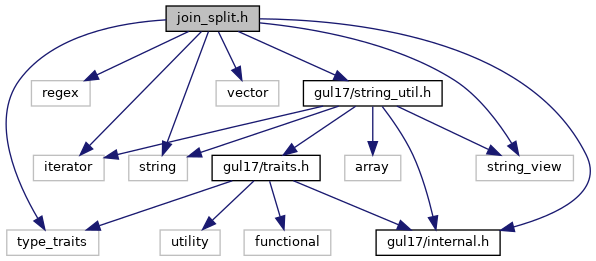
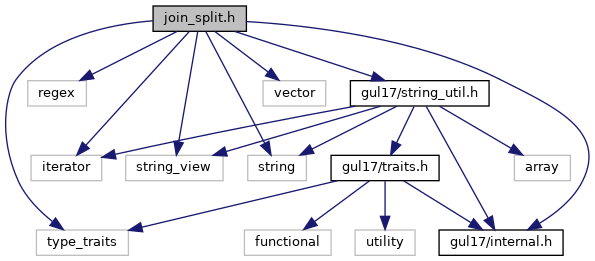
[ci] Regenerate Doxygen docs

diff --git a/docs/join__split_8h.html b/docs/join__split_8h.html
@@ -56,36 +56,36 @@ $(function() {
 <div class="textblock"><p>Implementation of <a class="el" href="group__join__split__h.html#gacd0ca27dafec6bf2b178060d47999ee6" title="Concatenate all strings in a range, placing a delimiter between them.">join()</a>, <a class="el" href="group__join__split__h.html#ga07881e2a9dc085cf3486402201dddfda" title="Separate a string at all occurrences of a delimiter described by a regular expression,...">split()</a>, and <a class="el" href="group__join__split__h.html#ga047cd1163ecf874f13273237459d8bbd" title="Separate a string at all occurrences of a delimiter, returning the strings between the delimiters in ...">split_sv()</a>. </p>
 <dl class="section author"><dt>Authors</dt><dd><a class="el" href="contributors_and_copyright.html#contributors">General Utility Library Contributors</a> </dd></dl>
 <dl class="section date"><dt>Date</dt><dd>Created on 31 August 2018</dd></dl>
-<dl class="section copyright"><dt>Copyright</dt><dd>Copyright 2018-2023 Deutsches Elektronen-Synchrotron (DESY), Hamburg</dd></dl>
+<dl class="section copyright"><dt>Copyright</dt><dd>Copyright 2018-2024 Deutsches Elektronen-Synchrotron (DESY), Hamburg</dd></dl>
 <p>This program is free software: you can redistribute it and/or modify it under the terms of the GNU Lesser General Public License as published by the Free Software Foundation, either version 2.1 of the license, or (at your option) any later version.</p>
 <p>This program is distributed in the hope that it will be useful, but WITHOUT ANY WARRANTY; without even the implied warranty of MERCHANTABILITY or FITNESS FOR A PARTICULAR PURPOSE. See the GNU Lesser General Public License for more details.</p>
 <p>You should have received a copy of the GNU Lesser General Public License along with this program. If not, see <a href="https://www.gnu.org/licenses/">https://www.gnu.org/licenses/</a>. </p>
 </div><div class="textblock"><code>#include &lt;iterator&gt;</code><br />
 <code>#include &lt;regex&gt;</code><br />
+<code>#include &lt;string_view&gt;</code><br />
 <code>#include &lt;string&gt;</code><br />
 <code>#include &lt;type_traits&gt;</code><br />
 <code>#include &lt;vector&gt;</code><br />
 <code>#include &quot;<a class="el" href="internal_8h_source.html">gul17/internal.h</a>&quot;</code><br />
 <code>#include &quot;<a class="el" href="string__util_8h_source.html">gul17/string_util.h</a>&quot;</code><br />
-<code>#include &lt;string_view&gt;</code><br />
 </div><div class="textblock"><div class="dynheader">
 Include dependency graph for join_split.h:</div>
 <div class="dyncontent">
 <div class="center"><img src="join__split_8h__incl.png" border="0" usemap="#ajoin__split_8h" alt=""/></div>
 <map name="ajoin__split_8h" id="ajoin__split_8h">
-<area shape="rect" title="Implementation of join(), split(), and split_sv()." alt="" coords="166,5,259,32"/>
-<area shape="rect" title=" " alt="" coords="33,155,104,181"/>
-<area shape="rect" title=" " alt="" coords="31,80,90,107"/>
-<area shape="rect" title=" " alt="" coords="129,155,187,181"/>
-<area shape="rect" title=" " alt="" coords="7,229,99,256"/>
-<area shape="rect" title=" " alt="" coords="216,80,279,107"/>
-<area shape="rect" href="internal_8h.html" title="Definition of macros used internally by GUL." alt="" coords="376,229,500,256"/>
-<area shape="rect" href="string__util_8h.html" title="Declaration of string utility functions." alt="" coords="303,80,442,107"/>
-<area shape="rect" title=" " alt="" coords="476,155,573,181"/>
-<area shape="rect" title=" " alt="" coords="345,155,401,181"/>
-<area shape="rect" href="traits_8h.html" title="Some metaprogramming traits for the General Utility Library." alt="" coords="212,155,320,181"/>
+<area shape="rect" title="Implementation of join(), split(), and split_sv()." alt="" coords="153,5,246,32"/>
+<area shape="rect" title=" " alt="" coords="31,155,102,181"/>
+<area shape="rect" title=" " alt="" coords="28,80,86,107"/>
+<area shape="rect" title=" " alt="" coords="126,155,223,181"/>
+<area shape="rect" title=" " alt="" coords="248,155,306,181"/>
+<area shape="rect" title=" " alt="" coords="36,229,128,256"/>
+<area shape="rect" title=" " alt="" coords="263,80,326,107"/>
+<area shape="rect" href="internal_8h.html" title="Definition of macros used internally by GUL." alt="" coords="439,229,563,256"/>
+<area shape="rect" href="string__util_8h.html" title="Declaration of string utility functions." alt="" coords="350,80,489,107"/>
+<area shape="rect" title=" " alt="" coords="514,155,570,181"/>
+<area shape="rect" href="traits_8h.html" title="Some metaprogramming traits for the General Utility Library." alt="" coords="331,155,439,181"/>
 <area shape="rect" title=" " alt="" coords="244,229,331,256"/>
-<area shape="rect" title=" " alt="" coords="160,229,220,256"/>
+<area shape="rect" title=" " alt="" coords="355,229,415,256"/>
 </map>
 </div>
 </div><div class="textblock"><div class="dynheader">

diff --git a/docs/join__split_8h_source.html b/docs/join__split_8h_source.html
@@ -55,13 +55,13 @@ $(function() {
 <div class="line"><a name="l00025"></a><span class="lineno">   25</span>&#160; </div>
 <div class="line"><a name="l00026"></a><span class="lineno">   26</span>&#160;<span class="preprocessor">#include &lt;iterator&gt;</span></div>
 <div class="line"><a name="l00027"></a><span class="lineno">   27</span>&#160;<span class="preprocessor">#include &lt;regex&gt;</span></div>
-<div class="line"><a name="l00028"></a><span class="lineno">   28</span>&#160;<span class="preprocessor">#include &lt;string&gt;</span></div>
-<div class="line"><a name="l00029"></a><span class="lineno">   29</span>&#160;<span class="preprocessor">#include &lt;type_traits&gt;</span></div>
-<div class="line"><a name="l00030"></a><span class="lineno">   30</span>&#160;<span class="preprocessor">#include &lt;vector&gt;</span></div>
-<div class="line"><a name="l00031"></a><span class="lineno">   31</span>&#160; </div>
-<div class="line"><a name="l00032"></a><span class="lineno">   32</span>&#160;<span class="preprocessor">#include &quot;<a class="code" href="internal_8h.html">gul17/internal.h</a>&quot;</span></div>
-<div class="line"><a name="l00033"></a><span class="lineno">   33</span>&#160;<span class="preprocessor">#include &quot;<a class="code" href="string__util_8h.html">gul17/string_util.h</a>&quot;</span></div>
-<div class="line"><a name="l00034"></a><span class="lineno">   34</span>&#160;<span class="preprocessor">#include &lt;string_view&gt;</span></div>
+<div class="line"><a name="l00028"></a><span class="lineno">   28</span>&#160;<span class="preprocessor">#include &lt;string_view&gt;</span></div>
+<div class="line"><a name="l00029"></a><span class="lineno">   29</span>&#160;<span class="preprocessor">#include &lt;string&gt;</span></div>
+<div class="line"><a name="l00030"></a><span class="lineno">   30</span>&#160;<span class="preprocessor">#include &lt;type_traits&gt;</span></div>
+<div class="line"><a name="l00031"></a><span class="lineno">   31</span>&#160;<span class="preprocessor">#include &lt;vector&gt;</span></div>
+<div class="line"><a name="l00032"></a><span class="lineno">   32</span>&#160; </div>
+<div class="line"><a name="l00033"></a><span class="lineno">   33</span>&#160;<span class="preprocessor">#include &quot;<a class="code" href="internal_8h.html">gul17/internal.h</a>&quot;</span></div>
+<div class="line"><a name="l00034"></a><span class="lineno">   34</span>&#160;<span class="preprocessor">#include &quot;<a class="code" href="string__util_8h.html">gul17/string_util.h</a>&quot;</span></div>
 <div class="line"><a name="l00035"></a><span class="lineno">   35</span>&#160; </div>
 <div class="line"><a name="l00036"></a><span class="lineno">   36</span>&#160;<span class="keyword">namespace </span><a class="code" href="namespacegul17.html">gul17</a> {</div>
 <div class="line"><a name="l00037"></a><span class="lineno">   37</span>&#160; </div>
@@ -100,7 +100,7 @@ $(function() {
 <div class="line"><a name="l00178"></a><span class="lineno">  178</span>&#160;    <span class="keyword">auto</span> <span class="keyword">const</span> end = std::cregex_iterator{ };</div>
 <div class="line"><a name="l00179"></a><span class="lineno">  179</span>&#160;    <span class="keyword">auto</span> result = StringContainer{ };</div>
 <div class="line"><a name="l00180"></a><span class="lineno">  180</span>&#160; </div>
-<div class="line"><a name="l00181"></a><span class="lineno">  181</span>&#160;    <span class="keyword">auto</span> parts = std::cregex_iterator(text.begin(), text.end(), delimiter);</div>
+<div class="line"><a name="l00181"></a><span class="lineno">  181</span>&#160;    <span class="keyword">auto</span> parts = std::cregex_iterator(text.data(), text.data() + text.size(), delimiter);</div>
 <div class="line"><a name="l00182"></a><span class="lineno">  182</span>&#160;    <span class="keywordflow">if</span> (parts == end)</div>
 <div class="line"><a name="l00183"></a><span class="lineno">  183</span>&#160;    {</div>
 <div class="line"><a name="l00184"></a><span class="lineno">  184</span>&#160;        insert_fct(result, text);</div>
